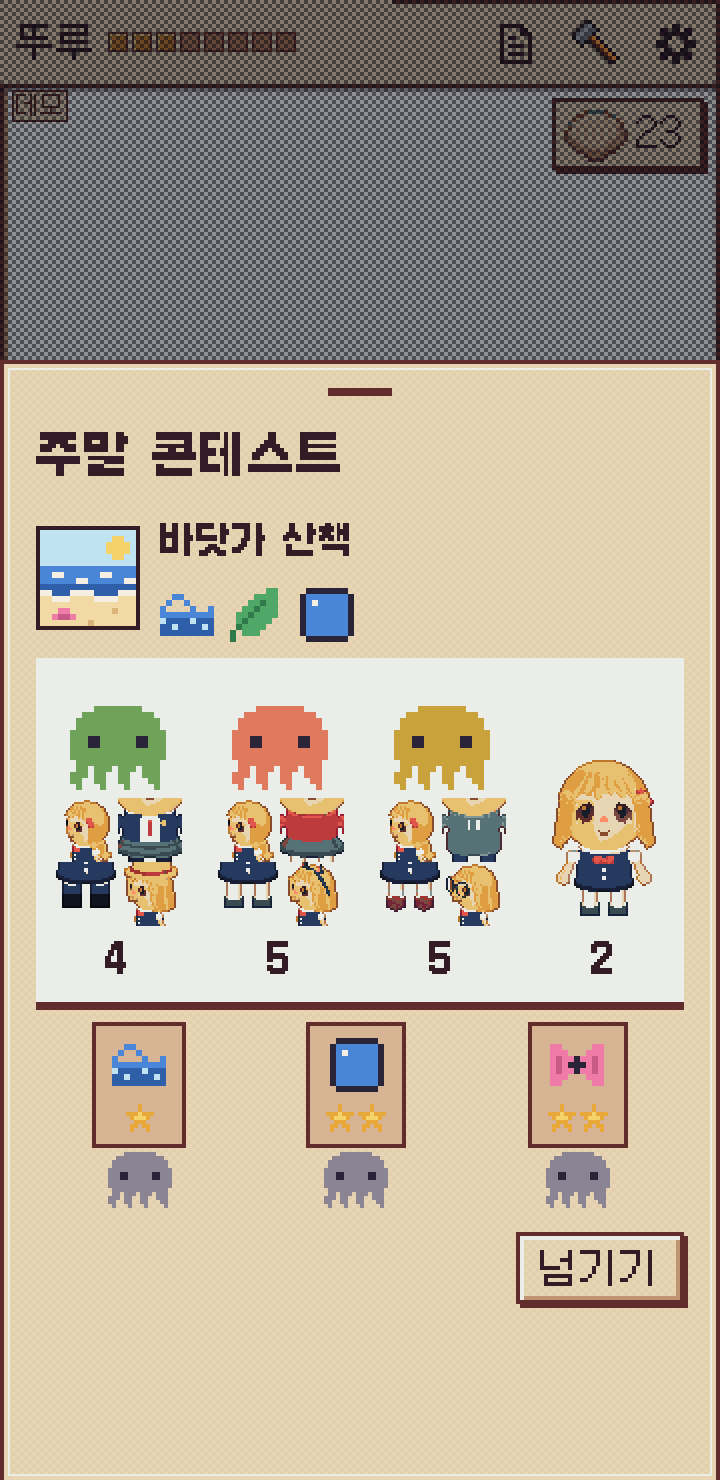
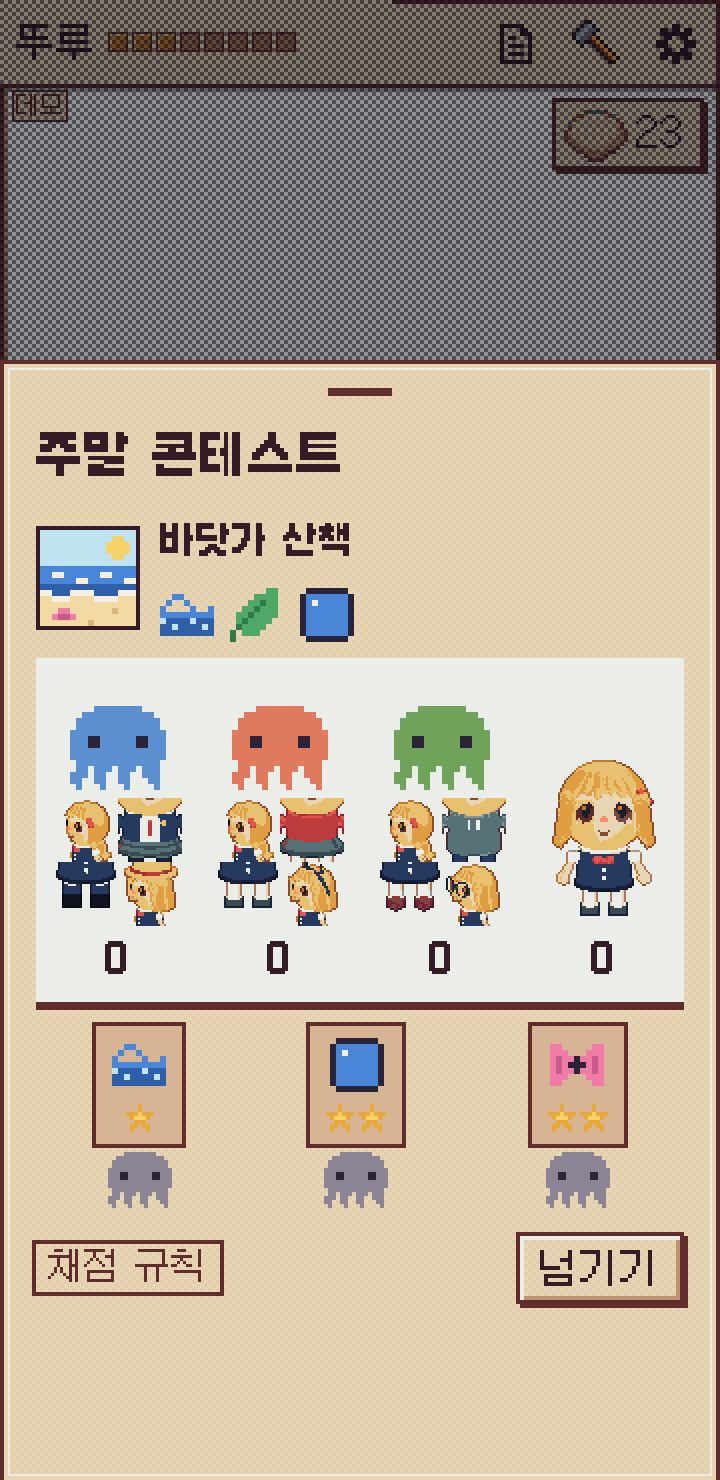
콘테스트: 독립 점검 고침 (옷 그림 선명도 · 빈 옷 목록 · 쇼 중 '채점 규칙' · 모르는 저장값 · 불러오기) · 보고서
Claude-Session: https://claude.ai/code/session_01Tq2y4SbbcvooKJ5ykn66Da

diff --git a/js/app.js b/js/app.js
@@ -5547,12 +5547,15 @@ var APP = (function () {
       return cv;
     } catch (e) { console.warn('[contest] playerShot', e); return null; }
   }
-  function ctThumb(cat, id) {   /* 경쟁자가 입은 것 (P 갈래의 그림 — 없으면 안 그린다) */
+  function ctThumb(cat, id) {   /* 경쟁자가 입은 것 (P 갈래의 그림 — 없으면 안 그린다). 받은 그림의 1px 도 기기 픽셀 정수 배로 (약 32 CSS px) */
     var A = ctApi(); if (!A || typeof A.itemThumb !== 'function') return null;
     try {
       var t = A.itemThumb(cat, id, 32); if (!t) return null;
-      if (typeof t === 'string') return h('img', { class: 'ct-thumb', src: t, alt: '', width: '32', height: '32' });
-      var cv = h('canvas', { class: 'ct-thumb', 'aria-hidden': 'true' }); cv.width = t.width || 32; cv.height = t.height || 32; cv.getContext('2d').drawImage(t, 0, 0); return cv;
+      var cv = h('canvas', { class: 'ct-art ct-thumb', 'aria-hidden': 'true' });
+      var put = function (src, w, hh) { if (!(w > 0 && hh > 0)) return; cv.width = w; cv.height = hh; ctSnap(cv, w, hh, 32 / w); cv.getContext('2d').drawImage(src, 0, 0); };
+      if (typeof t === 'string') { cv.width = cv.height = 32; ctSnap(cv, 32, 32, 1); var im = new Image(); im.onload = function () { put(im, im.naturalWidth, im.naturalHeight); }; im.src = t; }
+      else put(t, t.width, t.height);
+      return cv;
     } catch (e) { return null; }
   }
   function ctNpc(id) {   /* 심사 문어의 이름 · 색 (N 갈래의 명단 — 없으면 이름 없는 그림자) */
@@ -5592,7 +5595,7 @@ var APP = (function () {
   function ctResult(e, fresh) {   /* 결과: 등수 + 조개 + '채점 규칙' · 단상 · 심사 카드 */
     var th = CT.themeById(e.theme) || CT.week(todayKey()).theme;
     return h('div', { class: 'ct-result', id: 'ct-result' }, [
-      h('p', { class: 'ct-line', id: 'ct-line', tabindex: '-1' }, [h('span', { class: 'ct-place', text: CT.fill(CT.TEXT.rank, { n: e.rank }) }), shellAmt(e.shells | 0), h('span', { class: 'ct-rule', text: CT.TEXT.rule })]),
+      h('p', { class: 'ct-line', id: 'ct-line', tabindex: '-1' }, [h('span', { class: 'ct-place', text: CT.fill(CT.TEXT.rank, { n: e.rank }) }), shellAmt(CT.shellsOf(e)), h('span', { class: 'ct-rule', text: CT.TEXT.rule })]),
       ctPodium(e, 'on'), ctCards(e, th, 'on')
     ]);
   }
@@ -5612,28 +5615,28 @@ var APP = (function () {
   }
   function ctHeal() {   /* 이 탭이 나간 기록이 다른 탭의 옛 저장에 덮였으면 (그 저장엔 그 기록도 그때 받은 조개도 없다) 기록과 조개를 함께 다시 얹는다. 그날 기록이 있으면 건드리지 않는다 */
     var born = S.octopus.born || 0;
-    ctMine = ctMine.filter(function (m) { return m.born === born; });   /* 다른 문어 (초기화 · 불러오기) 의 것은 버린다 */
+    ctMine = ctMine.filter(function (m) { return m.born === born && m.t > importAt; });   /* 다른 문어 (초기화) 의 것 · 기록을 불러오기 전의 것은 버린다 (불러온 기록을 바꾸지 않게) */
     if (!CT || !ctMine.length) return false;
     var u = userState(), lost = ctMine.filter(function (m) { return !CT.today(u, m.dk); });
     if (!lost.length) return false;
     var mine = { v: 1, weeks: {} };
-    lost.forEach(function (m) { var wk = CT.week(m.dk); if (!mine.weeks[wk.key]) mine.weeks[wk.key] = { theme: wk.theme.id, days: {} }; mine.weeks[wk.key].days[m.dk] = m.entry; u.shells += m.entry.shells | 0; });
+    lost.forEach(function (m) { var wk = CT.week(m.dk); if (!mine.weeks[wk.key]) mine.weeks[wk.key] = { theme: wk.theme.id, days: {} }; mine.weeks[wk.key].days[m.dk] = m.entry; u.shells += CT.shellsOf(m.entry); });
     u.contest = CT.merge(mine, u.contest); save(); return true;
   }
   function ctEnter(ev) {
     if (ev && ev.isTrusted && ev.detail !== 0 && tapTime(ev) - ctOpenedAt < SHEET_SETTLE) return;   /* 시트를 연 손가락이 그대로 누르는 것 */
-    if (!ctApi() || ctRun) return;
+    if (!ctApi() || ctRun || !ctCats().length) return;
     try { var raw = storeOK ? localStorage.getItem(KEY) : null; if (raw && raw !== lastSaved) takeRemote(raw); } catch (e) { /* noop */ }   /* 다른 탭이 방금 나갔을 수 있다 — 그 저장부터 받는다 */
     var dk = todayKey(), u = userState(); CT.normalize(u);
     var res = CT.enter(u, dk, ctWorn(), { catalog: ctCats(), salt: S.octopus.born || 0, at: Date.now() });
     if (!res) { ctRender(); return; }
     var e = res.entry;
-    if (!e.paid) { e.paid = true; u.shells += e.shells | 0; ctMine.push({ dk: dk, entry: e, born: S.octopus.born || 0 }); save(); renderBagChip(); ctLogSync(); ctTell = e; }   /* 조개는 여기 한 번만 (주간 선물과 같은 방식) */
+    if (!e.paid) { e.paid = true; u.shells += CT.shellsOf(e); ctMine.push({ dk: dk, entry: e, born: S.octopus.born || 0, t: performance.now() }); save(); renderBagChip(); ctLogSync(); ctTell = e; }   /* 조개는 여기 한 번만 (주간 선물과 같은 방식) */
     if (res.replay || reduced()) { ctRender(); ctFocusLine(); ctTold(); return; }
     ctShow(e);
   }
   function ctSay(key, vars) { var A = window.APP; if (A && typeof A.npcSay === 'function') { try { A.npcSay('clothes', key, vars); } catch (e) { console.warn('[contest] npcSay', e); } } }   /* 옷가게 문어의 대본 한 줄 (N 갈래의 말상자 · '대본' 표시 — 없으면 아무것도 안 띄운다) */
-  function ctTold() { var t = ctTell; ctTell = null; if (t) ctSay('contest.result', { rank: t.rank, shells: t.shells | 0 }); }   /* 결과가 보일 때 한 번 */
+  function ctTold() { var t = ctTell; ctTell = null; if (t) ctSay('contest.result', { rank: t.rank, shells: CT.shellsOf(t) }); }   /* 결과가 보일 때 한 번 */
   function ctFocusLine() { var l = $('ct-line'); if (l) { try { l.focus({ preventScroll: true }); } catch (e) { l.focus(); } } }
   /* 쇼: 참가자 넷이 차례로 → 심사 카드 셋 → 점수 오름 → 단상 → 결과. 넘기기는 언제나 */
   function ctShow(e) {
@@ -5645,7 +5648,7 @@ var APP = (function () {
     }));
     var skip = h('button', { type: 'button', class: 'btn sm pressable', id: 'ct-skip', text: CT.TEXT.skip });
     skip.addEventListener('click', function () { ctEnd(); });
-    var box = h('div', { class: 'ct-show', id: 'ct-show' }, [ctThemeHead(th, false), line, ctPodium(e), ctCards(e, th), h('div', { class: 'btn-row ct-skip-row' }, [skip])]);
+    var box = h('div', { class: 'ct-show', id: 'ct-show' }, [ctThemeHead(th, false), line, ctPodium(e), ctCards(e, th), h('div', { class: 'btn-row ct-skip-row' }, [h('span', { class: 'ct-rule', text: CT.TEXT.rule }), skip])]);
     body.textContent = ''; body.appendChild(box); body.dataset.view = 'show';
     ctRun = { entry: e, i: -1, timer: 0, raf: 0, box: box };
     var cl = $('contest-close'); if (cl) cl.hidden = true;
@@ -5683,7 +5686,7 @@ var APP = (function () {
   }
   function ctLogSync() { renderLog(); }
   function openContest() {
-    var d = $('contest-sheet'); if (!d || !ctApi()) return false;
+    var d = $('contest-sheet'); if (!d || !ctApi() || !ctCats().length) return false;   /* 꼬리표 달린 옷 목록이 없으면 (P 갈래 없음 · 깨짐) 열지 않는다 */
     var fresh = !d.open; if (fresh) ctOpenedAt = performance.now();
     ctRender(); showDialog(d);
     var dk = todayKey(), wk = CT.week(dk);

diff --git a/js/contest.js b/js/contest.js
@@ -159,7 +159,8 @@
     Object.keys(u.contest.weeks).forEach(function (k) { var w = u.contest.weeks[k]; if (isObj(w) && !isObj(w.days)) w.days = {}; });
     return u;
   }
-  function entryOk(e) { return isObj(e) && typeof e.rank === 'number' && e.rank >= 1 && e.rank <= 4; }
+  function entryOk(e) { return isObj(e) && e.rank === Math.floor(e.rank) && e.rank >= 1 && e.rank <= 4; }
+  function shellsOf(e) { return isObj(e) && typeof e.shells === 'number' && e.shells >= 0 && e.shells === Math.floor(e.shells) ? e.shells : entryOk(e) ? SHELLS[e.rank - 1] : 0; }   /* 깨진 수는 등수의 조개로 */
   function today(u, dk) {
     var w = week(dk); if (!w || !isObj(u) || !isObj(u.contest) || !isObj(u.contest.weeks)) return null;
     var W = u.contest.weeks[w.key], e = isObj(W) && isObj(W.days) ? W.days[dk] : null;
@@ -171,7 +172,9 @@
   function enter(u, dk, worn, o) {
     var w = week(dk); if (!w || !w.open || !isObj(u)) return null;
     normalize(u); o = o || {};
-    var had = today(u, dk); if (had) return { rank: had.rank, shells: had.shells | 0, replay: true, entry: had };
+    var had = today(u, dk); if (had) return { rank: had.rank, shells: shellsOf(had), replay: true, entry: had };
+    var W0 = u.contest.weeks[w.key];
+    if (W0 != null && (!isObj(W0) || (isObj(W0.days) && W0.days[dk] != null))) return null;   /* 모르는 모양의 값이 그 자리에 있으면 덮어쓰지 않는다 */
     var list = (Array.isArray(worn) ? worn : []).filter(function (p) { return isObj(p) && p.id != null; });
     var mine = score(list, w.theme, hashSeed('contest-me', w.key, o.salt, list.map(function (p) { return p.cat + ':' + p.id + ':' + (p.dye || ''); }).join(',')));
     var rv = rivals(w.key, o.catalog, w.theme, o.salt);
@@ -198,16 +201,16 @@
     for (k in A) if (Object.prototype.hasOwnProperty.call(A, k) && !(k in out)) out[k] = A[k];
     var wa = isObj(A.weeks) ? A.weeks : {}, wb = isObj(Bc.weeks) ? Bc.weeks : {}, weeks = {};
     Object.keys(wb).concat(Object.keys(wa)).forEach(function (wk) {
-      if (weeks[wk]) return;
+      if (Object.prototype.hasOwnProperty.call(weeks, wk)) return;
       var x = wa[wk], y = wb[wk];
-      if (!isObj(x) || !isObj(y)) { weeks[wk] = isObj(y) ? y : x; return; }
+      if (!isObj(x) || !isObj(y)) { weeks[wk] = isObj(y) ? y : isObj(x) ? x : (y !== undefined ? y : x); return; }
       var W = {}, j; for (j in y) if (Object.prototype.hasOwnProperty.call(y, j)) W[j] = y[j];
       for (j in x) if (Object.prototype.hasOwnProperty.call(x, j) && !(j in W)) W[j] = x[j];
       var dx = isObj(x.days) ? x.days : {}, dy = isObj(y.days) ? y.days : {}, days = {};
       Object.keys(dy).concat(Object.keys(dx)).forEach(function (dk) {
-        if (days[dk]) return;
+        if (Object.prototype.hasOwnProperty.call(days, dk)) return;
         var p = dx[dk], q = dy[dk];
-        if (!entryOk(p) || !entryOk(q)) { days[dk] = entryOk(q) ? q : entryOk(p) ? p : (q || p); return; }
+        if (!entryOk(p) || !entryOk(q)) { days[dk] = entryOk(q) ? q : entryOk(p) ? p : (q !== undefined ? q : p); return; }
         var keep = (!!p.paid !== !!q.paid) ? (p.paid ? p : q) : ((p.at || 0) < (q.at || 0) ? p : q);
         if ((p.paid || q.paid) && !keep.paid) keep.paid = true;
         days[dk] = keep;
@@ -217,7 +220,7 @@
     out.weeks = weeks; if (out.v == null) out.v = 1;
     return out;
   }
-  function logLine(e, full) { return fill(full ? TEXT.logFull : TEXT.log, { n: e.rank, s: e.shells | 0 }); }
+  function logLine(e, full) { return fill(full ? TEXT.logFull : TEXT.log, { n: e.rank, s: shellsOf(e) }); }
 
   /* ── 픽셀 그림 (글자 격자 + 팔레트. '.' = 비침). 그리기는 앱이 한다 ── */
   var PAL = deepFreeze({
@@ -311,7 +314,7 @@
     THEMES: THEMES, STYLES: STYLES, TAG_NAME: TAG_NAME, COLOR_HEX: COLOR_HEX, SHELLS: SHELLS, PTS: PTS, TEXT: TEXT, PAL: PAL,
     hashSeed: hashSeed, rng: rng, fill: fill, themeById: themeById, themeAt: themeAt,
     week: week, score: score, cards: cards, stars: stars, rivals: rivals, enter: enter, today: today, board: board,
-    normalize: normalize, merge: merge, logLine: logLine, art: art
+    normalize: normalize, merge: merge, shellsOf: shellsOf, logLine: logLine, art: art
   };
   if (typeof module !== 'undefined' && module.exports) module.exports = API;
   root.CONTEST = API;

diff --git a/tools/test-contest-live.js b/tools/test-contest-live.js
@@ -78,6 +78,12 @@ async function main() {
   r = await page.evaluate(function () { return { ret: APP.openContest(), open: document.getElementById('contest-sheet').open, has: typeof CONTEST === 'object' }; });
   check(r.has && r.ret === false && r.open === false, '옷 목록 (APP.wardrobe) 이 없으면 안 열림');
   check(await page.evaluate(function () { return document.getElementById('btn-plaza-stage') === null || true; }), '무대 단추가 없어도 던지지 않음');
+  r = await page.evaluate(function () {
+    var out = [], shapes = [function () { throw new Error('x'); }, function () { return null; }, function () { return { cats: [] }; }, function () { return { cats: [{ key: 'outfit', items: [] }] }; }, function () { return { cats: [{ key: 'outfit', items: [{ id: 'a', worn: true }] }] }; }];
+    shapes.forEach(function (f) { APP.wardrobe = f; out.push(APP.openContest()); APP.contestEnter(); });
+    delete APP.wardrobe; return { out: out, entry: CONTEST.today(APP.state.user, window.__ppolTest.today), open: document.getElementById('contest-sheet').open };
+  });
+  check(r.out.every(function (x) { return x === false; }) && r.entry === null && !r.open, '깨진 · 빈 · 꼬리표 없는 옷 목록이면 안 열리고 안 나감');
   check(page._errs.length === 0, '오류 없음');
   await page.close();
   page = await open(ctx, { q: '&scene=2d' });
@@ -124,6 +130,9 @@ async function main() {
   await page.click('#ct-go');
   r = await page.evaluate(function () { return { st: APP.contestStage, closeHidden: document.getElementById('contest-close').hidden, skip: !!document.getElementById('ct-skip') }; });
   check(r.st && r.st.stage === 'walk' && r.st.n === 1 && r.skip && r.closeHidden, '쇼 시작: 걸어 나오기 1 · 넘기기 단추');
+  r = await page.evaluate(function () { var dpr = window.devicePixelRatio, bad = [], th = document.querySelectorAll('#ct-show canvas.ct-thumb'); Array.prototype.forEach.call(th, function (c) { var per = c.getBoundingClientRect().width * dpr / c.width; if (Math.abs(per - Math.round(per)) > 0.01) bad.push(per); }); return { n: th.length, bad: bad, rule: !!document.querySelector('#ct-show .ct-rule') }; });
+  check(r.n >= 9 && r.bad.length === 0, '경쟁자 옷 그림 ' + r.n + '개도 기기 픽셀 정수 배 ' + JSON.stringify(r.bad));
+  check(r.rule, "쇼 중에도 '채점 규칙' 꼬리표");
   e = await entry(page, SAT);
   check(e && e.paid === true && (await shells(page)) === s0 + e.shells && [12, 8, 5, 3][e.rank - 1] === e.shells, '나가는 순간 조개 한 번 (' + (e && e.rank) + '등 · ' + (e && e.shells) + ')');
   var seen = {}, t0 = Date.now(), frames = 0;
@@ -191,7 +200,7 @@ async function main() {
   s0 = await shells(p1);
   await p1.evaluate(function () { APP.openContest(); APP.contestEnter(); APP.contestSkip(); });
   var e1 = await entry(p1, SAT);
-  await p2.waitForTimeout(300);
+  await p2.waitForFunction(function (d) { return !!CONTEST.today(APP.state.user, d); }, SAT, { timeout: 10000 });   /* 저장 알림이 닿은 뒤 */
   await p2.evaluate(function () { APP.setPlayerPart('outfit', 'raincoat'); APP.openContest(); APP.contestEnter(); });
   var eB = await entry(p2, SAT);
   check(e1 && eB && eB.at === e1.at && eB.rank === e1.rank && !(await p2.evaluate(function () { return APP.contestStage; })), '둘째 탭: 첫 탭의 결과 그대로 (쇼 없이)');
@@ -206,7 +215,7 @@ async function main() {
   await p2.evaluate(function () { window.addEventListener('storage', function (e) { e.stopImmediatePropagation(); }, true); });   /* 둘째 탭이 저장 알림을 못 받은 척 */
   await p1.evaluate(function () { APP.openContest(); APP.contestEnter(); APP.contestSkip(); });
   await p2.evaluate(function () { APP.save(); });   /* 옛 상태 그대로 저장 → 첫 탭의 기록을 덮는다 */
-  await p2.waitForTimeout(400);
+  await p2.waitForFunction(function (d) { var u = JSON.parse(localStorage.getItem('ppolppol_v2')).user; return !!CONTEST.today(u, d); }, SUN, { timeout: 10000 });   /* 첫 탭이 기록을 다시 얹은 뒤 */
   await p2.evaluate(function () { APP.openContest(); APP.contestEnter(); });
   await p1.waitForTimeout(300);
   e1 = await entry(p1, SUN); eB = await entry(p2, SUN);

diff --git a/css/style.css b/css/style.css
@@ -1808,7 +1808,6 @@ html.intro-on .meal-call { opacity: 0; visibility: hidden; }
 .contest-sheet .set-h { font-size: 15px; font-weight: 600; font-family: 'Noto Serif KR', serif; margin: 0; color: var(--fg); }
 :root[data-font="pixel"] .contest-sheet .set-h { font-family: var(--f-ui); font-size: var(--fs-u24, 24px); line-height: 36px; font-weight: 700; }
 .ct-art, .ct-thumb { display: block; flex: 0 0 auto; image-rendering: pixelated; image-rendering: crisp-edges; }
-.ct-thumb { width: 32px; height: 32px; }
 .ct-theme { display: flex; gap: 12px; align-items: center; margin: 10px 2px 8px; }
 .ct-theme > .ct-art { outline: 2px solid var(--fg); }
 .ct-theme-txt { min-width: 0; }
@@ -1827,7 +1826,7 @@ html.intro-on .meal-call { opacity: 0; visibility: hidden; }
 :root[data-font="pixel"] .ct-rule { font-family: var(--f-meta); font-size: var(--fs-m16, 16px); line-height: 24px; box-shadow: 0 0 0 2px var(--rim); }
 .ct-podium { display: flex; align-items: flex-end; justify-content: center; gap: 4px; margin: 12px 0 10px; }
 .ct-pod { display: flex; flex-direction: column; align-items: center; gap: 4px; flex: 0 1 76px; min-width: 0; }
-.ct-block { width: 100%; display: flex; flex-direction: column; align-items: center; background: var(--panel2); box-shadow: inset 0 0 0 2px var(--rim); color: var(--fg); }
+.ct-block { width: 100%; box-sizing: border-box; padding-top: 4px; display: flex; flex-direction: column; align-items: center; background: var(--panel2); box-shadow: inset 0 0 0 2px var(--rim); color: var(--fg); }
 .ct-pod.r1 .ct-block { height: 88px; } .ct-pod.r2 .ct-block { height: 72px; } .ct-pod.r3 .ct-block { height: 60px; }
 .ct-pod.r4 .ct-block { height: 50px; background: none; box-shadow: inset 0 2px 0 var(--rim); }
 .ct-pod.me .ct-block { box-shadow: inset 0 0 0 2px var(--fg); }
@@ -1842,7 +1841,7 @@ html.intro-on .meal-call { opacity: 0; visibility: hidden; }
 .ct-jname { font-size: 11px; color: var(--muted); white-space: nowrap; }
 .ct-lineup { display: flex; justify-content: space-between; align-items: flex-end; min-height: 176px; margin: 8px 0; padding: 8px 0; background: var(--panel2); border-bottom: 4px solid var(--rim); }
 .ct-slot { display: flex; flex-direction: column; align-items: center; gap: 4px; flex: 1 1 0; min-width: 0; }
-.ct-thumbs { display: grid; grid-template-columns: 32px 32px; gap: 0; }
+.ct-thumbs { display: grid; grid-template-columns: auto auto; gap: 0; }
 .ct-thumbs:empty { display: none; }
 .ct-total { font-size: 14px; font-weight: 700; color: var(--fg); }
 :root[data-font="pixel"] .ct-total { font-family: var(--f-ui); font-size: var(--fs-u20, 20px); line-height: 26px; }
@@ -1850,7 +1849,7 @@ html.intro-on .meal-call { opacity: 0; visibility: hidden; }
 .ct-show [data-at] { visibility: hidden; }
 .ct-show [data-at].on { visibility: visible; animation: ct-in .32s steps(4) both; }
 .ct-show:not(.podium) .ct-podium, .ct-show.podium .ct-lineup { display: none; }
-.ct-skip-row { justify-content: flex-end; }
+.ct-skip-row { justify-content: space-between; }
 @keyframes ct-in { from { transform: translateY(8px); } to { transform: none; } }
 @media (prefers-reduced-motion: reduce) { :root:is([data-motion="auto"], :not([data-motion])) .ct-show [data-at].on { animation: none; } }
 :root[data-motion="reduce"] .ct-show [data-at].on { animation: none; }

diff --git a/tools/test-contest.js b/tools/test-contest.js
@@ -199,6 +199,12 @@ section('6 normalize · merge', function () {
   check(C.merge(P.contest, Q.contest).weeks[MON].days[SAT].at === 65 && C.merge(Q.contest, P.contest).weeks[MON].days[SAT].at === 65, '둘 다 줬으면 먼저 나간 쪽');
   var mm = C.merge(u.contest, A.contest);
   check(mm.later && mm.weeks.odd === 'str' && mm.weeks[MON].extra === 1 && mm.weeks[MON].days[SAT].future === 'k', '합쳐도 모르는 값 그대로 · 준 쪽이 남음');
+  check(C.merge({ weeks: { w2: 7 } }, { weeks: {} }).weeks.w2 === 7 && C.merge({ weeks: {} }, { weeks: { w2: 7 } }).weeks.w2 === 7, '한쪽에만 있는 모르는 주 값도 남음');
+  var odd = { contest: { v: 1, weeks: {} } }; odd.contest.weeks[MON] = { days: {} }; odd.contest.weeks[MON].days[SAT] = { rank: 2.5, shells: -4, paid: true };
+  check(C.today(odd, SAT) === null && C.enter(odd, SAT, [], { catalog: cat }) === null && odd.contest.weeks[MON].days[SAT].rank === 2.5, '모르는 모양의 그날 값은 결과로 안 읽고 덮어쓰지도 않음');
+  var odd2 = { contest: { v: 1, weeks: {} } }; odd2.contest.weeks[MON] = 'later';
+  check(C.enter(odd2, SAT, [], { catalog: cat }) === null && odd2.contest.weeks[MON] === 'later', '모르는 모양의 주 값도 덮어쓰지 않음');
+  check(C.shellsOf({ rank: 2 }) === 8 && C.shellsOf({ rank: 2, shells: -4 }) === 8 && C.shellsOf({ rank: 1, shells: 12 }) === 12 && C.shellsOf(null) === 0, '깨진 조개 수는 등수의 조개로');
   check(!!C.merge(null, A.contest).weeks[MON] && !!C.merge(A.contest, undefined).weeks[MON] && !!C.merge(null, null).weeks, '한쪽이 없어도');
 });
 

diff --git a/wip/round7/reports/F.md b/wip/round7/reports/F.md
@@ -3,7 +3,7 @@
 ## 결론
 
 주말 콘테스트가 돈다: 주마다 주제 하나 (열둘, 9주 안에 안 겹침), 입은 옷의 꼬리표로 0 ~ 100 점 (감점 없음), 경쟁자 문어 셋과 등수, 조개 12 · 8 · 5 · 3 (누구나 받음), 열린 날마다 한 번 · 그날은 적힌 결과 그대로, 약 12초 쇼 (넘기기 가능 · 움직임 줄이기면 바로 결과), 결과에 '채점 규칙' 꼬리표.
-기존 줄은 하나도 고치지 않았다 (새 파일과 `[7-F]` 자리만). 옷 목록 (P) · 무대 단추 (V) · 명단 (N) 없이도 오류 없이 조용히 빠지고, 테스트는 작은 대역으로 돈다.
+기존 줄은 리드가 허락한 한 곳 (`dayRows` 에 한 줄 덧붙임) 만 건드렸다. 옷 목록 (P) · 무대 단추 (V) · 명단 (N) 없이도 오류 없이 조용히 빠지고, 테스트는 작은 대역으로 돈다. P · N · V 가지를 임시로 합쳐 (푸시 안 함) 진짜 옷장 · 명단 · 대본 · 무대 단추로 열기 → 나가기 → 결과까지 확인했다.
 
 ## 바꾼 것
 
@@ -20,7 +20,8 @@
 
 ## 기존 줄을 고친 곳
 
-없음.
+- `js/app.js` `dayRows`: `flush(null);` 줄 바로 아래에 `ctDayRows(list, asks, meals).forEach(…)` 한 줄을 **더했다** (리드 11-21: #log 를 지켜보지 말고 식탁 줄처럼 `dayRows` 에 한 줄). 그날 콘테스트 결과 줄이 오늘 칸과 앨범 일기에 함께 나온다. 있던 줄의 글자는 바꾸지 않았다.
+- `.github/workflows/test.yml` 의 lane 가지 제외 한 줄 (리드 요청) 은 이 세션의 권한 검사에 막혀 **못 했다** — 파일은 BASE 그대로.
 
 ## 주제 표
 
@@ -60,8 +61,8 @@
 3. **토 · 일 각각 한 번** 나갈 수 있다 (같은 주제 · 같은 경쟁자, 일요일엔 옷을 바꿔 다시). 주말 이틀 최대 24개. '주에 한 번' 을 바라면 `CONTEST.enter` 의 그날 검사를 그 주 검사로 바꾸면 된다.
 4. **꼴찌도 3개, 쇼는 약 12초.**
 5. **평일에도 시트는 열린다** (주제 · 내 차림 · 옷 갈아입기 · '주말에 열려.').
-6. **옷가게 문어의 결과 한마디** (`contest.result`) 는 시트를 닫을 때 부른다 (시트가 말상자를 가리지 않게). `contest.open` 은 부르지 않는다 (시트가 바로 덮어서).
-7. **오늘 기록 줄은 오늘 칸에만.** 기존 줄을 고치지 않으려고 `#log` 가 다시 그려질 때마다 덧붙인다. 앨범 일기 (지난 날) 에는 없다.
+6. **옷가게 문어 (시침) 의 대본 한마디**: 열린 날 시트를 처음 열 때 `contest.open` 한 번, 결과가 보일 때 `contest.result` 한 번 (N 의 말상자가 시트 위에 '대본' 표시와 함께 뜬다).
+7. **기록 줄** '콘테스트 N등 · 조개 M' 은 그날 칸의 맨 끝에 붙는다 (시각 순으로 끼우지 않는다). 그날 산책 · 물음 · 식사가 하나도 없던 지난 날은 일기에 칸 자체가 없어서 줄도 안 보인다 (기록은 저장에 남아 있다).
 8. 주제 이름 열둘과 그림.
 
 ## 새 글 · 읽어 주기 이름 (모두 `js/contest.js` 의 `TEXT` · `THEMES` · `TAG_NAME`)
@@ -72,9 +73,11 @@
 
 ## 검사
 
-- `node tools/test-contest.js` — 187 통과 (주 · 주제 간격 20년 · 채점 결정성 · 감점 없음 2000번 · 경쟁자 · 등수와 조개 · 하루 한 번 · 다시 보기 · normalize · merge · 글 · 그림).
-- `NODE_PATH=$(npm root -g) node tools/test-contest-live.js` — 60 통과 (옷 목록 없음 · 2D · 평일 · 토요일 끝까지 · 일요일 넘기기 · 두 탭 둘 · 움직임 줄이기 · 360 · 320 · 1280 · 진짜 2.625 배율 선명도). `--shots <폴더>` 로 사진.
-- `npm test` 통과.
+- `node tools/test-contest.js` — 191 통과 (주 · 주제 간격 20년 · 채점 결정성 · 감점 없음 2000번 · 경쟁자 · 등수와 조개 · 하루 한 번 · 다시 보기 · normalize · merge · 글 · 그림).
+- `NODE_PATH=$(npm root -g) node tools/test-contest-live.js` — 63 통과 (옷 목록 없음 · 깨진 옷 목록 · 2D · 평일 · 토요일 끝까지 · 일요일 넘기기 · 두 탭 둘 · 움직임 줄이기 · 360 · 320 · 1280 · 진짜 2.625 배율 선명도). `--shots <폴더>` 로 사진.
+- `npm test` 통과. `python3 tools/subset-fonts.py --check` → `stale: none`.
+- `tools/smoke.js` 는 한 번 돌렸다 (콘테스트 화면을 붙인 뒤 · 독립 점검 고침 전에 시작): 보고서를 쓰는 때까지 실패 0 (ok 498 줄, 아직 도는 중이라 끝은 못 봤다 — 리드의 CI 가 전부 돌린다).
+- 독립 점검 한 번 (must 1 · should 5) → 고침: 경쟁자 옷 그림도 기기 픽셀 정수 배로 · 꼬리표 달린 옷 목록이 없으면 안 열림 (맨몸 1등 막음) · 쇼 중에도 '채점 규칙' · 단상 글자 위 여백 · 모르는 모양의 저장값은 결과로 안 읽고 덮어쓰지도 않음 · 기록을 불러온 뒤에는 그 전 참가를 되살리지 않음.
 - `npm test` 에 넣을 것: `node tools/test-contest.js`. CI 브라우저 단계에 넣을 것: `node tools/test-contest-live.js`.
 - `tools/test-brain.js` 1874 줄의 정직 검사 목록에 `js/contest.js` 를 넣으면 좋다 (리드 몫 — 지금은 `test-contest.js` 7 절이 같은 뜻으로 본다).
 
@@ -85,7 +88,7 @@
 ## 다른 갈래가 합쳐져야 다 볼 수 있는 것
 
 - **P**: 진짜 꼬리표 · `worn` · `itemThumb`. `APP.wardrobe()` 의 `cats[].key` 가 물들임 칸 (`outfit` · `shoes` · `acc`) 과 같아야 물들임 덤이 붙는다. P 가 없으면 무대 단추와 `APP.openContest()` 는 아무것도 하지 않는다.
-- **V**: `#btn-plaza-stage` (누르면 `openContest`). 단추가 `ctInit` (DOMContentLoaded) 때 문서에 있어야 한다.
+- **V**: `#btn-plaza-stage` (누르면 `openContest`). 단추가 `ctInit` (DOMContentLoaded) 때 문서에 있어야 한다 (V 가지는 index.html 에 둔다 — 확인).
 - **N**: `NPC.roster` (배열 또는 id 로 찾는 객체, `name` · `color` '#rrggbb') · `APP.npcSay`.
 
 ## 빼거나 못 한 것
@@ -93,3 +96,10 @@
 - 경쟁자가 옷을 입은 모습은 그리지 않았다 (문어 그림자 + 입은 것 그림 넷).
 - `renderAll` 에 시트 다시 그리기를 걸지 않았다 (기존 줄). 다른 탭 저장은 따로 듣고 다시 그린다.
 - 쇼에 소리 · 진동 없음 (시트 여닫는 소리만).
+
+## 확인하지 못한 것
+
+- 전체 `tools/smoke.js` 의 끝 (위).
+- 진짜 폰 기기 (헤드리스 크롬의 360 · 320 · 1280 과 창 배율 2.625 만).
+- P 의 `itemThumb` 그림은 임시로 합친 화면에서 내 캐릭터에 그 옷을 입힌 작은 사진으로 나온다 (옷만 있는 그림이 아니다) — 경쟁자 밑 네 칸이 조금 복잡해 보인다. P 가 그림을 바꾸면 그대로 따라간다.
+- 기록을 불러온 직후 열려 있던 콘테스트 시트는 닫았다 열어야 새로 그린다 (`renderAll` 을 고치지 않아서 — 불러오기는 설정 시트에서 하므로 보통은 둘이 같이 열려 있지 않다).

diff --git a/docs/CONTEST.md b/docs/CONTEST.md
@@ -63,7 +63,7 @@
 
 - 채점은 규칙이다: 결과 줄에 '채점 규칙' 꼬리표. 심사 문어 (가게 문어 셋 — `NPC` 명단이 있으면 이름과 색) 는 그림 카드만 든다. 말 · 마음 · 평가 글이 없다.
 - 경쟁자는 이름 없는 마을 문어 그림자다. 다락 문어는 나오지 않는다.
-- 결과를 닫을 때 `APP.npcSay('clothes', 'contest.result', { rank, shells })` 가 있으면 한 번 부른다 ('대본' 표시는 N 갈래의 말상자가 한다). 없으면 아무것도 띄우지 않는다.
+- `APP.npcSay` 가 있으면 열린 날 처음 열 때 `('clothes', 'contest.open', { theme })`, 결과가 보일 때 `('clothes', 'contest.result', { rank, shells })` 를 한 번씩 부른다 ('대본' 표시는 N 갈래의 말상자가 한다). 없으면 아무것도 띄우지 않는다.
 
 ## 저장 (`S.user.contest`)
 
@@ -73,11 +73,11 @@
 
 - `CONTEST.normalize(user)`: 없거나 깨진 칸만 기본값, 모르는 값은 그대로. `CONTEST.merge(a, b)`: 두 탭 — 주 · 날을 합치고, 같은 날이 둘이면 조개를 준 쪽 (둘 다면 먼저 나간 쪽).
 - 두 탭: 나가기 직전에 저장소를 다시 읽어 다른 탭이 이미 나갔으면 그 결과를 보여 준다 (조개는 한 번). 다른 탭의 옛 저장이 이 탭의 기록을 덮으면 기록과 그때 받은 조개를 함께 다시 얹는다.
-- 오늘 기록 칸에 '콘테스트 N등 · 조개 M' 한 줄 (오늘 칸에만).
+- 그날 기록 칸 (오늘 · 앨범 일기) 에 '콘테스트 N등 · 조개 M' 한 줄 (`dayRows` 가 `ctDayRows` 를 부른다).
 
 ## 다른 갈래와 닿는 곳
 
-- P (옷 목록): `APP.wardrobe()` 의 `cats[].items[]` 에서 `tags` · `worn` 을 읽는다 (`worn` 표시가 없으면 `APP.wearing()`). 경쟁자 옷 그림은 `APP.itemThumb(cat, id, 32)`. 없으면 무대 단추와 `APP.openContest()` 는 아무것도 하지 않는다.
+- P (옷 목록): 입은 것은 `APP.wearing()` 에 `APP.wardrobe()` 의 본디 꼬리표를 합쳐 읽는다 (물들여서 잃는 것이 없게; `wearing` 이 없으면 `worn` 표시). 경쟁자 옷 그림은 `APP.itemThumb(cat, id, 32)`. 꼬리표 달린 옷 목록이 없으면 무대 단추와 `APP.openContest()` 는 아무것도 하지 않는다.
 - V (무대 단추): `#btn-plaza-stage` 누름. 없으면 넘어간다. 2D 장면에서는 열리지 않는다.
 - N (명단 · 대본): `NPC.roster` 의 `clothes` · `goods` · `cafe` 이름 · 색, `APP.npcSay`.
 - 조개: 기존 놀이 보상 함수는 판마다 2 ~ 8개로 고정이고 달리기 과제를 표시하므로 쓰지 않았다. 주간 선물과 같은 방식 (`userState()` → 더하기 → `save()` → `renderBagChip()`) 으로 준다.
